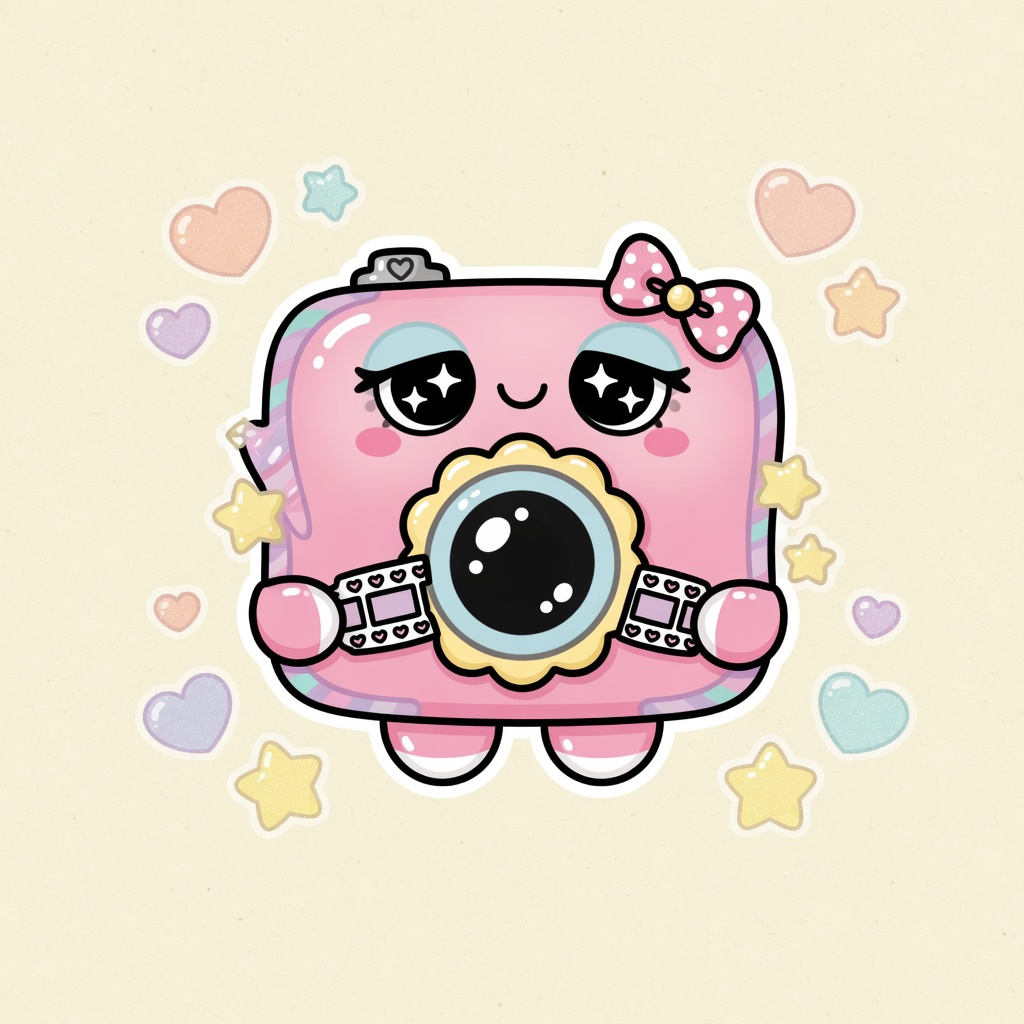
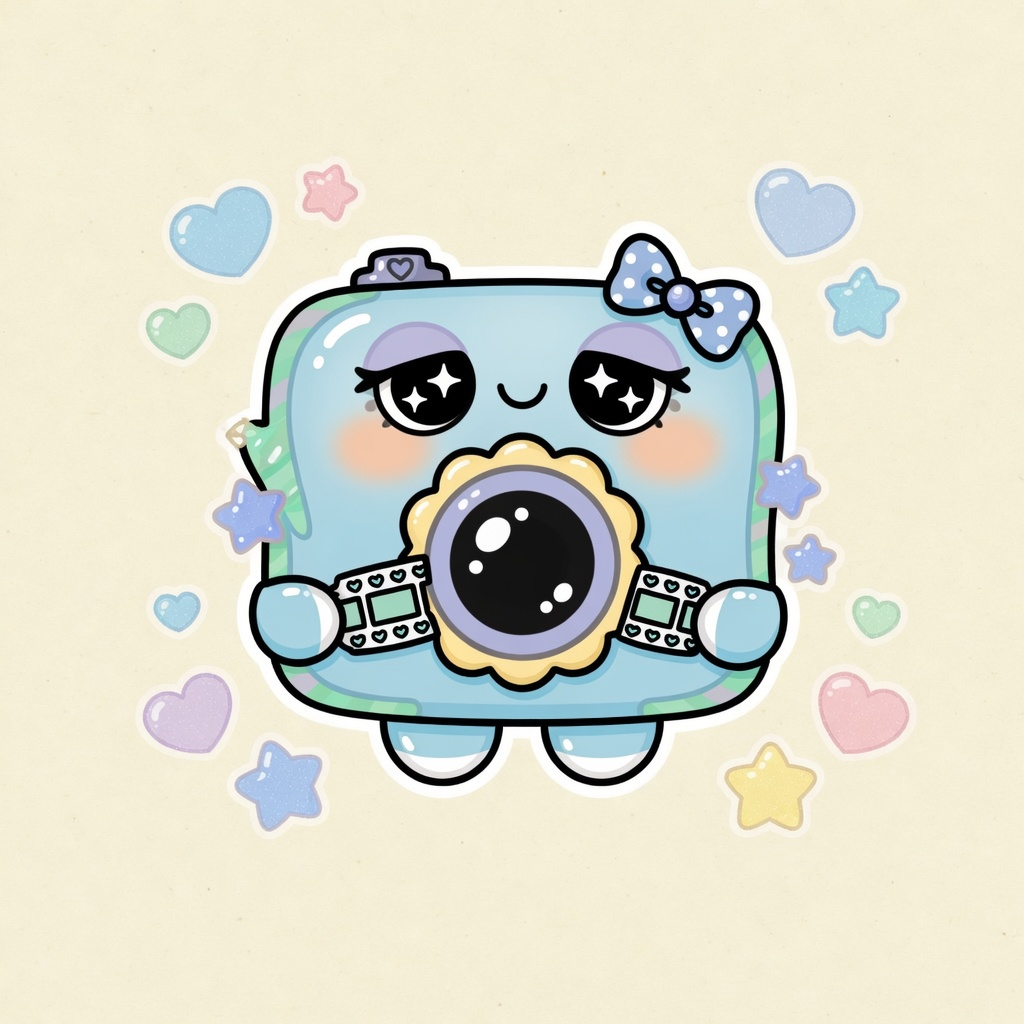
change color

diff --git a/src/app/globals.css b/src/app/globals.css
@@ -1,18 +1,19 @@
 @import "tailwindcss";
 
 :root {
-  --bg: #fff7fa;
-  --ink: #2b2430;
-  --ink-soft: #6b6275;
-  --ink-muted: #9a91a3;
-  --primary: #ff5c9a;
-  --primary-deep: #e83d7f;
+  --bg: #eaf6ff;
+  --ink: #1f2a38;
+  --ink-soft: #5a6a7d;
+  --ink-muted: #8a9aab;
+  /* Bright sky blue — saturated, not washed-out pastel */
+  --primary: #2eb8ff;
+  --primary-deep: #0a9ef0;
   --sunny: #ffc83d;
   --mint: #3ecf8e;
-  --sky: #6bb0ff;
+  --sky: #4cc9ff;
   --lavender: #b794f6;
-  --stroke: #ffd0e0;
-  --stroke-soft: #ffe8f0;
+  --stroke: #7ed4ff;
+  --stroke-soft: #c8ecff;
   --card: #ffffff;
   --background: var(--bg);
   --foreground: var(--ink);
@@ -33,9 +34,9 @@
   --color-stroke: var(--stroke);
   --color-stroke-soft: var(--stroke-soft);
   --color-card: var(--card);
-  --color-pink-soft: #ffe4ef;
+  --color-pink-soft: #c8ecff;
   --color-mint-soft: #e0faf0;
-  --color-sky-soft: #e8f3ff;
+  --color-sky-soft: #dff3ff;
   --font-sans: var(--font-body);
   --font-display: var(--font-display);
 }
@@ -57,14 +58,14 @@ body {
 
 .bg-soft {
   background:
-    radial-gradient(ellipse 70% 50% at 50% 0%, #ffe4ef 0%, transparent 55%),
-    radial-gradient(ellipse 40% 30% at 100% 80%, #e8f3ff 0%, transparent 50%),
-    #fff7fa;
+    radial-gradient(ellipse 70% 50% at 50% 0%, #9edfff 0%, transparent 55%),
+    radial-gradient(ellipse 40% 30% at 100% 80%, #d4f0ff 0%, transparent 50%),
+    #eaf6ff;
 }
 
 ::selection {
-  background: #ffb3cc;
-  color: #2b2430;
+  background: #7ed4ff;
+  color: #1f2a38;
 }
 
 /* Pattern sticker previews */

diff --git a/src/app/page.tsx b/src/app/page.tsx
@@ -24,7 +24,7 @@ export default function HomePage() {
         animate={{ y: [0, 10, 0], rotate: [0, 12, 0] }}
         transition={{ duration: 3.8, repeat: Infinity, ease: "easeInOut" }}
       >
-        💕
+        💙
       </motion.span>
 
       <header className="mx-auto flex w-full max-w-3xl items-center justify-between px-5 py-5">
@@ -55,7 +55,7 @@ export default function HomePage() {
               width={200}
               height={200}
               priority
-              className="relative mx-auto h-40 w-40 rounded-[32px] border-4 border-white object-cover shadow-[0_16px_40px_rgba(255,92,154,0.25)] sm:h-48 sm:w-48"
+              className="relative mx-auto h-40 w-40 rounded-[32px] border-4 border-white object-cover shadow-[0_16px_40px_rgba(46,184,255,0.45)] sm:h-48 sm:w-48"
             />
           </motion.div>
         </motion.div>

diff --git a/src/app/booth/capture/page.tsx b/src/app/booth/capture/page.tsx
@@ -147,7 +147,7 @@ export default function CapturePage() {
         <div className="grid gap-5 lg:grid-cols-[1fr_260px]">
           {/* Camera */}
           <div>
-            <div className="relative overflow-hidden rounded-[28px] border-[3px] border-white bg-ink shadow-[0_16px_40px_rgba(255,92,154,0.15)]">
+            <div className="relative overflow-hidden rounded-[28px] border-[3px] border-white bg-ink shadow-[0_16px_40px_rgba(46,184,255,0.28)]">
               {error ? (
                 <div className="flex aspect-[4/3] items-center justify-center bg-pink-soft p-6 text-center text-sm font-semibold text-ink-soft">
                   {error}

diff --git a/src/components/booth/adaptive-strip.tsx b/src/components/booth/adaptive-strip.tsx
@@ -83,7 +83,7 @@ export function AdaptiveStrip({
         "relative w-full overflow-hidden",
         compact
           ? "rounded-xl border-[3px]"
-          : "rounded-[24px] border-[6px] shadow-[0_20px_50px_rgba(255,92,154,0.25)]",
+          : "rounded-[24px] border-[6px] shadow-[0_20px_50px_rgba(46,184,255,0.38)]",
         className,
       )}
       style={{

diff --git a/src/components/booth/photo-strip.tsx b/src/components/booth/photo-strip.tsx
@@ -53,7 +53,7 @@ export function PhotoStrip({
         "relative w-full overflow-hidden",
         compact
           ? "rounded-xl border border-black/10"
-          : "rounded-[16px] border-2 shadow-[0_16px_40px_rgba(255,92,154,0.2)]",
+          : "rounded-[16px] border-2 shadow-[0_16px_40px_rgba(46,184,255,0.35)]",
         className,
       )}
       style={{

diff --git a/src/components/ui/button.tsx b/src/components/ui/button.tsx
@@ -14,7 +14,7 @@ type ButtonProps = HTMLMotionProps<"button"> & {
 
 const variants: Record<Variant, string> = {
   primary:
-    "bg-primary text-white shadow-[0_8px_22px_rgba(255,92,154,0.32)] hover:bg-primary-deep border-transparent",
+    "bg-primary text-white shadow-[0_8px_24px_rgba(46,184,255,0.55)] hover:bg-primary-deep border-transparent",
   secondary:
     "bg-white text-ink border-2 border-stroke shadow-sm hover:border-primary hover:text-primary",
   ghost: "bg-transparent text-ink-soft border-transparent hover:bg-white/70",